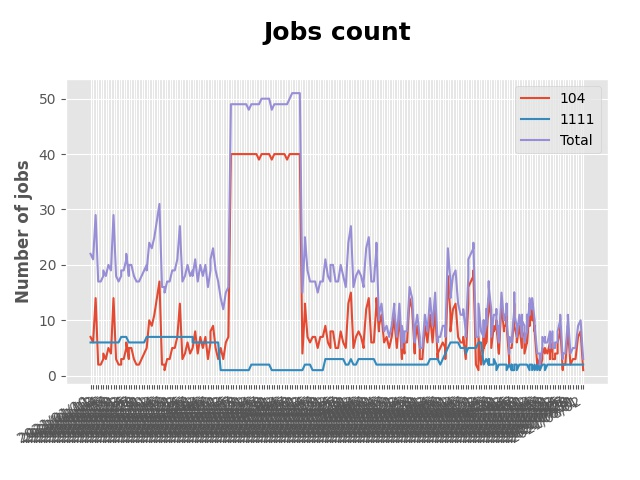
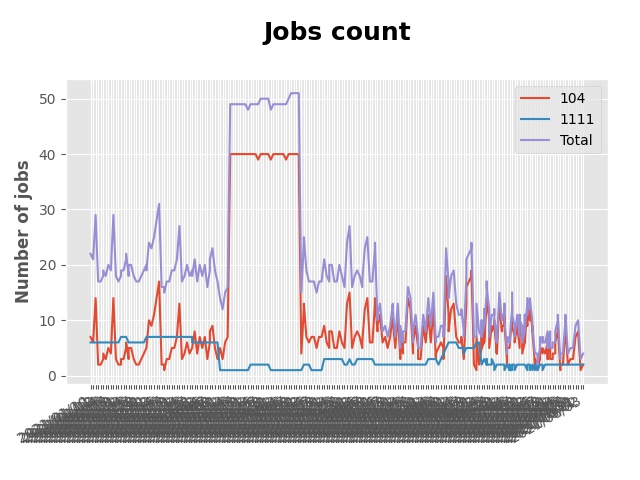
Update job list at 2021-08-03 16:14

diff --git a/README.md b/README.md
@@ -8,9 +8,10 @@
 ### Platform - 104
 
 
-|    | company                                                                           | job_title                                                                                | update_time   |
-|---:|:----------------------------------------------------------------------------------|:-----------------------------------------------------------------------------------------|:--------------|
-|  1 | [紅門互動股份有限公司](https://www.104.com.tw/company/oh4m67k?jobsource=jolist_c_relevance) | [Python Flask網站研發工程師(台中)](https://www.104.com.tw/job/6kf9h?jobsource=jolist_c_relevance) | 7/27          |
+|    | company                                                                                     | job_title                                                                                | update_time   |
+|---:|:--------------------------------------------------------------------------------------------|:-----------------------------------------------------------------------------------------|:--------------|
+|  1 | [紅門互動股份有限公司](https://www.104.com.tw/company/oh4m67k?jobsource=jolist_b_relevance)           | [Python Flask網站研發工程師(台中)](https://www.104.com.tw/job/6kf9h?jobsource=jolist_b_relevance) | 8/03          |
+|  2 | [英屬開曼群島商萬里雲互聯股份有限公司台灣分公司](https://www.104.com.tw/company/1a2x6bk5cu?jobsource=2018indexpoc) | [Backend Engineer 後端工程師](https://www.104.com.tw/job/6xipk?jobsource=2018indexpoc)        | 8/03          |
 
 ### Platform - 1111
 
